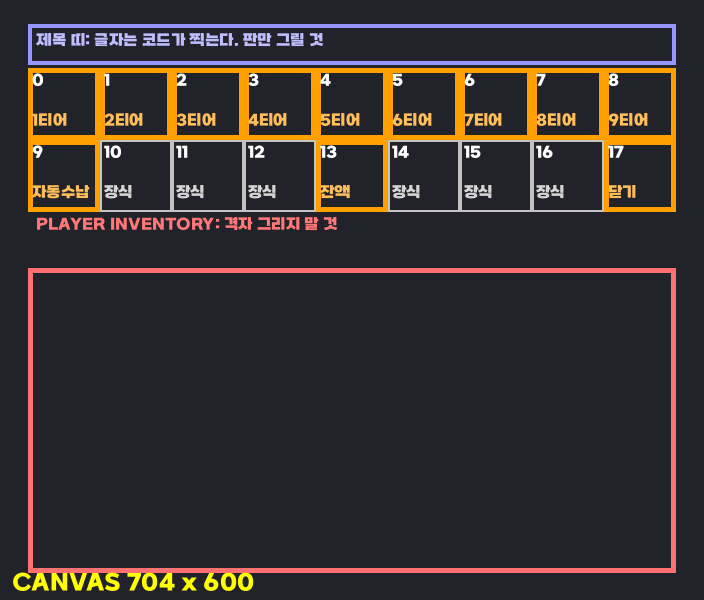
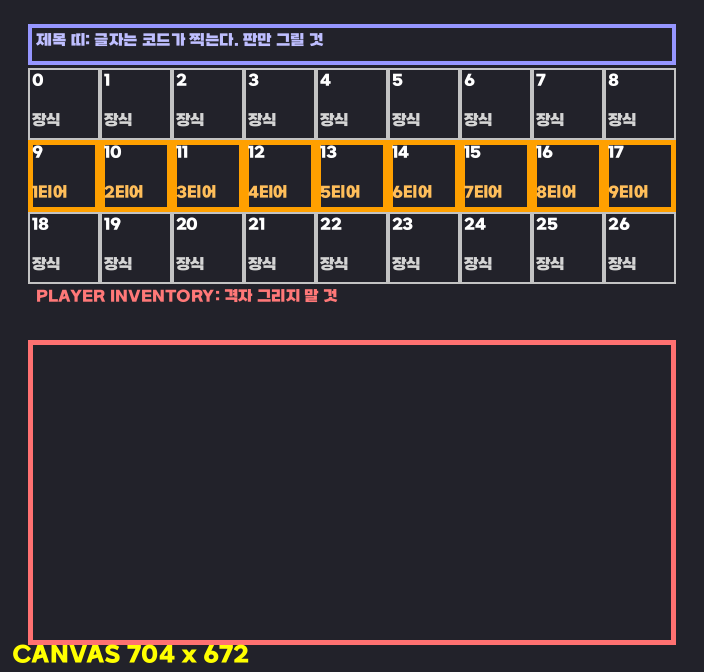
아이스박스 상점을 3행으로 — 진열이 천장에 붙어 있었다
2행 18칸이라 티어 진열이 창 맨 윗줄에 딱 붙어 답답했다. 3행 27칸으로 두고
가운데 줄(9~17)에만 9칸을 놓아 위아래 한 줄씩 여백을 준다.

홈은 그 9개가 전부다:
  잔액·진주 보유량 → 제목 줄 (살 때 필요한 두 숫자라 상시 노출, 칸은 안 먹음)
  닫기 → Esc
  자동 수납 → 해금자에게만, 아랫줄 오른쪽 끝

발주서도 "가운데 9칸이 주인공, 위아래 여백이 조연"으로 다시 썼다 —
위는 고드름 천장, 아래는 성에 낀 바닥으로 진열대를 감싸게.

Changed region(s): [[0.0312, 0.03, 0.9688, 0.54], [0.0, 0.93, 0.9688, 0.99]]

diff --git a/gui-forge/make_order_sheets.py b/gui-forge/make_order_sheets.py
@@ -71,14 +71,16 @@ SHEETS = {
         ("p", "분해창과 짝이라 색은 이어지되 도구가 반대면 좋다."),
     ]),
     "iceshop": ("아이스박스 상점", [
-        ("p", "아이스박스를 한 단계씩 올리는 화면. 윗줄 9칸이 1~9티어 진열이고"),
-        ("p", "아랫줄에 잔액·닫기 홈이 있다. 아이템(상자 그림)은 우리가 올린다."),
+        ("p", "아이스박스를 한 단계씩 올리는 화면. 3행 중 가운데 줄 9칸만 진열이고"),
+        ("p", "위아래 한 줄씩은 통째로 여백이다. 홈은 그 9개가 전부."),
+        ("p", "잔액·진주 보유량은 제목 줄에 뜨고 닫기는 Esc라 버튼이 없다."),
         ("s", ""),
-        ("hi", "★윗줄 9칸이 주인공이다."),
-        ("p", "왼쪽에서 오른쪽으로 갈수록 좋아지는 계단처럼 - 왼쪽은 소박한 나무 선반,"),
-        ("p", "오른쪽으로 갈수록 얼음이 두껍고 서리가 짙어지게. 마지막 칸만은"),
-        ("p", "전설급이라 티가 나도 좋다(빛나는 테두리 정도)."),
-        ("p", "2행짜리 낮은 창이라 위아래 여백이 적다 - 장식은 얇고 담백하게."),
+        ("hi", "★가운데 9칸이 주인공, 위아래 여백이 조연이다."),
+        ("p", "9칸은 왼쪽에서 오른쪽으로 좋아지는 계단처럼 - 왼쪽은 소박한 나무 선반,"),
+        ("p", "오른쪽으로 갈수록 얼음이 두껍고 서리가 짙어지게."),
+        ("p", "마지막 칸만은 전설급이라 티가 나도 좋다(빛나는 테두리 정도)."),
+        ("p", "위아래 여백은 진열대를 감싸는 창고로 - 위는 고드름 매달린 천장,"),
+        ("p", "아래는 성에 낀 바닥이나 얼음 벽돌 단. 진열이 공중에 뜨지 않게."),
     ]),
     "enhance": ("낚싯대 강화", [("p", "이미 납품 완료 - 만듦새·색의 기준이 되는 화면이다.")]),
 }

diff --git a/gui-forge/make_page_layouts.py b/gui-forge/make_page_layouts.py
@@ -64,12 +64,10 @@ PAGES = {
         0: ("홈", "분해로"), 8: ("홈", "닫기"),
         **{s: ("목록", "") for s in range(9, 45)}, 49: ("홈", "잔액"),
     }, "장식"),
-    # 아이스박스 상점 — 2행 18칸. 0~8 티어 9개 진열, 13 잔액, 17 닫기.
-    # 9번은 자동 수납 토글인데 해금자에게만 보여서 대부분 비어 있다 → 홈은 파되 조용하게.
-    "iceshop": (2, {
-        **{s: ("홈", f"{s+1}티어") for s in range(9)},
-        9: ("홈", "자동수납"), 13: ("홈", "잔액"), 17: ("홈", "닫기"),
-    }, "장식"),
+    # 아이스박스 상점 — 3행 27칸. 가운데 줄(9~17)에만 티어 9개를 놓고 위아래 줄은 여백이다.
+    # 2행으로 짰더니 진열이 천장에 붙어 답답했다(2026-08-08).
+    # 잔액·진주 보유량은 제목 줄로 올렸고 닫기는 Esc — 그래서 홈은 9개뿐이다.
+    "iceshop": (3, {**{s: ("홈", f"{s-8}티어") for s in range(9, 18)}}, "장식"),
     "enhance": (5, {
         4: ("홈", "낚싯대 정보"),
         10: ("홈", "↓라벨"), 12: ("홈", "↓라벨"), 13: ("홈", "↓라벨"), 14: ("홈", "↓라벨"),
